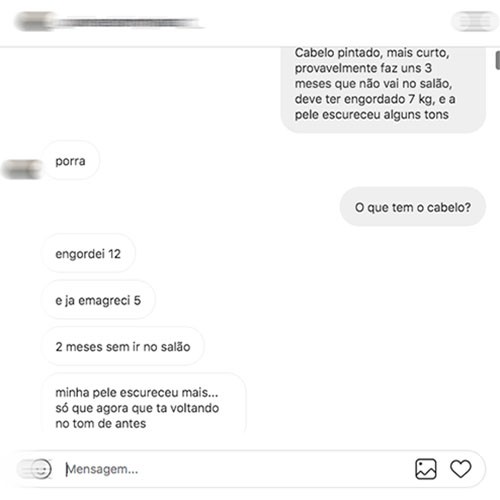
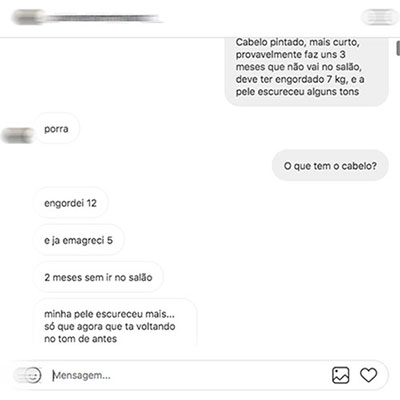
up

diff --git a/style.css b/style.css
@@ -222,8 +222,8 @@ div.scroll {
 
 div.print {
     display: inline-block;
-    max-width: 350px;
-    max-height: 350px;
+    max-width: 400px;
+    max-height: 400px;
     margin: 0px;
     padding: 0px;
 }
